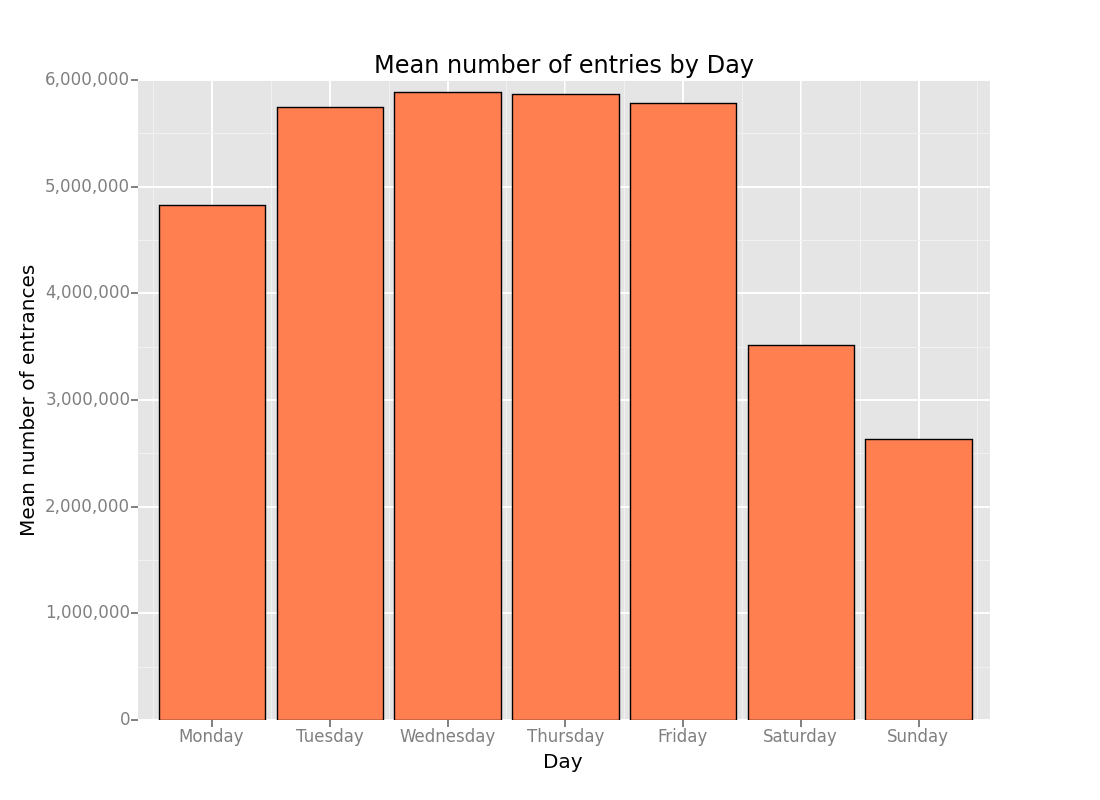
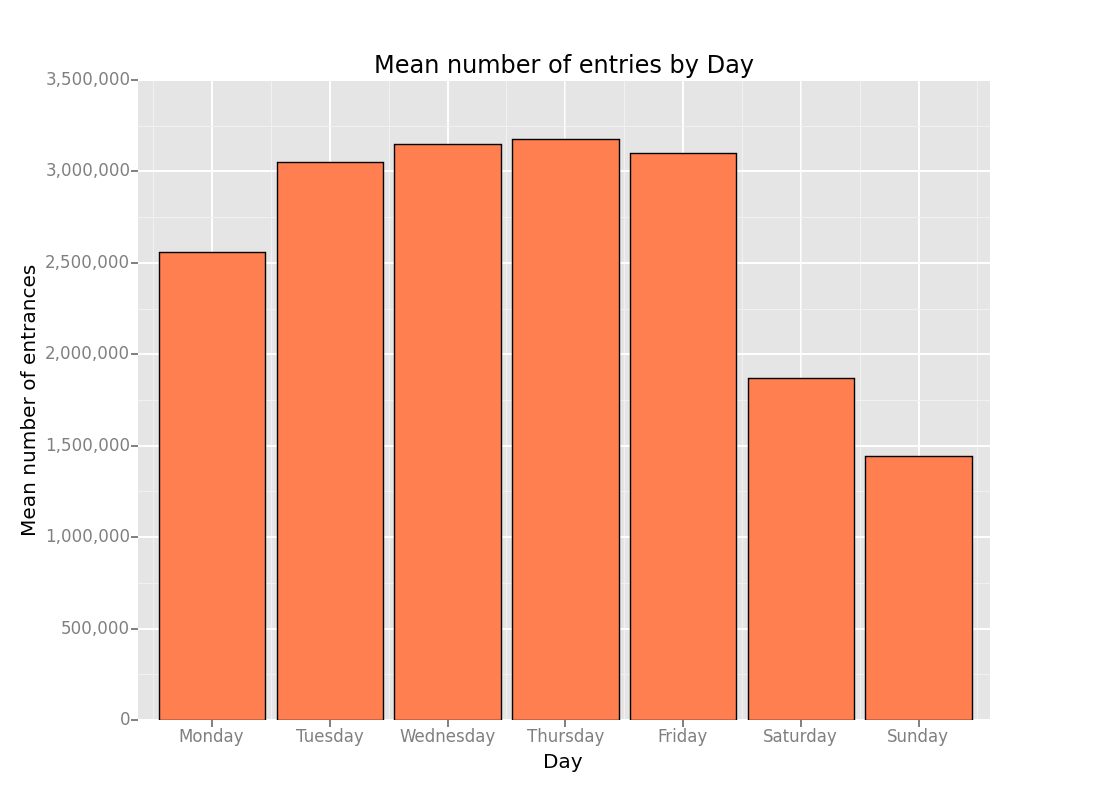
First iteration of the second project. Improved dataset was used.

diff --git a/Project2_NYSubway/Project2_NYSubway_1.html b/Project2_NYSubway/Project2_NYSubway_1.html
@@ -186,6 +186,16 @@ div#notebook {
 </div>
 <div class="inner_cell">
 <div class="text_cell_render border-box-sizing rendered_html">
+<p><strong>NOTE: EVERYTHING WAS RECALCULATED USING IMPROVED DATASET (turnstile_weather_v2.csv).</strong></p>
+
+</div>
+</div>
+</div>
+<div class="cell border-box-sizing text_cell rendered">
+<div class="prompt input_prompt">
+</div>
+<div class="inner_cell">
+<div class="text_cell_render border-box-sizing rendered_html">
 <hr>
 
 </div>
@@ -216,7 +226,6 @@ div#notebook {
 <div class="inner_cell">
 <div class="text_cell_render border-box-sizing rendered_html">
 <p>Problems with understanding and interpretation of the Mann-Whitney U-test:</p>
-<p><a href="http://stats.stackexchange.com/questions/124995/how-do-i-interpret-the-p-value-returned-in-scipys-mann-whitney-u-test">http://stats.stackexchange.com/questions/124995/how-do-i-interpret-the-p-value-returned-in-scipys-mann-whitney-u-test</a></p>
 <p><a href="https://discussions.udacity.com/t/problem-set-3-3-interpreting-mann-whitney-u-test-repost/25403/2">https://discussions.udacity.com/t/problem-set-3-3-interpreting-mann-whitney-u-test-repost/25403/2</a></p>
 <p><a href="https://discussions.udacity.com/t/welchs-ttest-use-it-if-distribution-not-normal/21193">https://discussions.udacity.com/t/welchs-ttest-use-it-if-distribution-not-normal/21193</a></p>
 <p>Linear regression with Python:</p>
@@ -225,6 +234,9 @@ div#notebook {
 <p><a href="https://en.wikipedia.org/wiki/Coefficient_of_determination#Interpretation">https://en.wikipedia.org/wiki/Coefficient_of_determination#Interpretation</a></p>
 <p>Matplotlib: equal width of the bins in histogram (looks familiar):</p>
 <p><a href="http://stackoverflow.com/questions/28101623/python-pyplot-histogram-adjusting-bin-width-not-number-of-bins">http://stackoverflow.com/questions/28101623/python-pyplot-histogram-adjusting-bin-width-not-number-of-bins</a></p>
+<p>QQ-plots:</p>
+<p><a href="https://en.wikipedia.org/wiki/Q%E2%80%93Q_plot">https://en.wikipedia.org/wiki/Q%E2%80%93Q_plot</a></p>
+<p><a href="http://stats.stackexchange.com/questions/101274/how-to-interpret-a-qq-plot">http://stats.stackexchange.com/questions/101274/how-to-interpret-a-qq-plot</a></p>
 
 </div>
 </div>
@@ -273,7 +285,7 @@ div#notebook {
 </div>
 <div class="inner_cell">
 <div class="text_cell_render border-box-sizing rendered_html">
-<p>I used <strong>two-sided Mann-Whitney U-test</strong> (two-tailed p-value: 0.04999983)</p>
+<p>I used <strong>two-sided Mann-Whitney U-test</strong> (two-tailed p-value: 5.482139e-06)</p>
 <p>null hypothesis $H_0$: distribution of the number of entries equal for rainy and non rainy days</p>
 <p>alternative hypothesis $H_1$: distribution of the number of entries different for rainy and non rainy days</p>
 
@@ -305,7 +317,7 @@ div#notebook {
 </div>
 <div class="inner_cell">
 <div class="text_cell_render border-box-sizing rendered_html">
-<p>We don't care about any properties of the samples to be tested with the Mann-Whitney U-test. In our case both distributions are right-skewed.</p>
+<p>In this case we need to check, if values from one sample is greater, than in the other, but we can't use parametric test (t-test), because both sample's distributions are right-skewed (for the t-test we need a normal distribution). Values in both samples represents number of the passengers, so can be compared with the relation "&lt;" or "&gt;" (<a href="http://docs.scipy.org/doc/scipy-0.15.1/reference/generated/scipy.stats.mannwhitneyu.html">continuity correction</a> for equal values applies by default in scipy's implementation).</p>
 
 </div>
 </div>
@@ -335,9 +347,9 @@ div#notebook {
 </div>
 <div class="inner_cell">
 <div class="text_cell_render border-box-sizing rendered_html">
-<p>mean for the rainy days sample: $\mu_r = 1105.446$</p>
-<p>mean for the non rainy days sample: $\mu_r = 1090.279$</p>
-<p>p-value: p = 0.04999983</p>
+<p>mean for the rainy days sample: $\mu_r = 2028.196$</p>
+<p>mean for the non rainy days sample: $\mu_r = 1845.5394$</p>
+<p>p-value: p = 5.482139e-06</p>
 
 </div>
 </div>
@@ -367,8 +379,8 @@ div#notebook {
 </div>
 <div class="inner_cell">
 <div class="text_cell_render border-box-sizing rendered_html">
-<p>With the significance level α=0.05 null-hypothesis is rejected in favour of the alternative. But it has to be noted, that resulted p-value almost equal to critical value.
-Distribution of the number of entrances statistically different between rainy and non rainy days. Comparisons of means suppose, that we have slightly higher number of entrances in rainy days.</p>
+<p>With the significance level α=0.05 null-hypothesis is rejected in favour of the alternative. 
+Distribution of the number of entrances statistically different between rainy and non rainy days. Comparisons of means suppose, that we have higher number of entrances in rainy days.</p>
 
 </div>
 </div>
@@ -450,7 +462,7 @@ Distribution of the number of entrances statistically different between rainy an
 </div>
 <div class="inner_cell">
 <div class="text_cell_render border-box-sizing rendered_html">
-<p>I used: 'Hour', 'maxpressurei', 'maxdewpti','minpressurei', 'meanpressurei', 'rain', 'meanwindspdi', 'mintempi' and dummy variable prodused from 'UNIT' variable.</p>
+<p>I used: 'rain' 'weekday' and 'hour', 'UNIT' as a dummy variables,</p>
 
 </div>
 </div>
@@ -483,38 +495,7 @@ Your reasons might also be based on data exploration and experimentation, for ex
 </div>
 <div class="inner_cell">
 <div class="text_cell_render border-box-sizing rendered_html">
-<p>First I've tried several combinations using an intuition, then I've printed out summary of fitting the linear regression and chose coefficients, that significantly different from 0. Code and summary below:</p>
-
-</div>
-</div>
-</div>
-<div class="cell border-box-sizing code_cell rendered">
-<div class="input">
-<div class="prompt input_prompt">In&nbsp;[9]:</div>
-<div class="inner_cell">
-    <div class="input_area">
-<div class=" highlight hl-ipython2"><pre><span class="k">def</span> <span class="nf">linear_regression</span><span class="p">(</span><span class="n">features</span><span class="p">,</span> <span class="n">values</span><span class="p">):</span>
-    
-    <span class="n">features</span> <span class="o">=</span> <span class="n">sm</span><span class="o">.</span><span class="n">add_constant</span><span class="p">(</span><span class="n">features</span><span class="p">,</span> <span class="n">prepend</span> <span class="o">=</span> <span class="bp">True</span><span class="p">)</span>
-    <span class="n">model</span> <span class="o">=</span> <span class="n">sm</span><span class="o">.</span><span class="n">OLS</span><span class="p">(</span><span class="n">values</span><span class="p">,</span> <span class="n">features</span><span class="p">)</span>
-    <span class="n">results</span> <span class="o">=</span> <span class="n">model</span><span class="o">.</span><span class="n">fit</span><span class="p">()</span>
-    <span class="n">intercept</span> <span class="o">=</span> <span class="n">results</span><span class="o">.</span><span class="n">params</span><span class="p">[</span><span class="mi">0</span><span class="p">]</span>
-    <span class="n">params</span> <span class="o">=</span> <span class="n">results</span><span class="o">.</span><span class="n">params</span><span class="p">[</span><span class="mi">1</span><span class="p">:]</span>
-    <span class="k">print</span> <span class="n">intercept</span><span class="p">,</span> <span class="n">params</span><span class="p">,</span> <span class="n">results</span><span class="o">.</span><span class="n">summary</span><span class="p">()</span>
-<span class="c">#print linear_regression(dataframe[nmes_clear], dataframe[&#39;ENTRIESn_hourly&#39;])</span>
-</pre></div>
-
-</div>
-</div>
-</div>
-
-</div>
-<div class="cell border-box-sizing text_cell rendered">
-<div class="prompt input_prompt">
-</div>
-<div class="inner_cell">
-<div class="text_cell_render border-box-sizing rendered_html">
-<p>Note: I had to got rid of "thunder" variable, because there was a problem adding the constant (intercept) when one constant already exists in data set. I can't find a link right now, but it is known problem.</p>
+<p>After an observation, that a large number of the potential features are weather conditions (so related to each other and this can cause multicollinearity), I decided to use only one of the weather variables - 'rain'. Then it was an observations from the histograms of the next section - number of passengers definitely varies depending on day of week and time of day.</p>
 
 </div>
 </div>
@@ -544,7 +525,27 @@ Your reasons might also be based on data exploration and experimentation, for ex
 </div>
 <div class="inner_cell">
 <div class="text_cell_render border-box-sizing rendered_html">
-<p><img src="lr_summary.png"></p>
+<table>
+<thead><tr>
+<th>feature</th>
+<th>weight</th>
+</tr>
+</thead>
+<tbody>
+<tr>
+<td>const</td>
+<td>-1022.636</td>
+</tr>
+<tr>
+<td>rain</td>
+<td>40.617</td>
+</tr>
+<tr>
+<td>weekday</td>
+<td>1003.760</td>
+</tr>
+</tbody>
+</table>
 
 </div>
 </div>
@@ -574,7 +575,7 @@ Your reasons might also be based on data exploration and experimentation, for ex
 </div>
 <div class="inner_cell">
 <div class="text_cell_render border-box-sizing rendered_html">
-<p>$R^2 = 0.481891290522$</p>
+<p>$R^2 = 0.541$</p>
 
 </div>
 </div>
@@ -604,7 +605,17 @@ Your reasons might also be based on data exploration and experimentation, for ex
 </div>
 <div class="inner_cell">
 <div class="text_cell_render border-box-sizing rendered_html">
-<p>Around 48% of the variance in the response variable (number of entrances per hour) can be explained by the explanatory variables. As it is a real-world data-set this value is fair enough, I reckon this model is fit reasonably well.</p>
+<p>Around 54% of the variance in the response variable (number of entrances per hour) can be explained by the explanatory variables. Though this value is reasonably high, histogram of the residuals shows, that heavy tails are present. So fit of the model is not perfect, still I don't know, if it could be better with the linear model.</p>
+
+</div>
+</div>
+</div>
+<div class="cell border-box-sizing text_cell rendered">
+<div class="prompt input_prompt">
+</div>
+<div class="inner_cell">
+<div class="text_cell_render border-box-sizing rendered_html">
+<p><img src="residuals_hist_cl.png"></p>
 
 </div>
 </div>
@@ -664,27 +675,6 @@ Your reasons might also be based on data exploration and experimentation, for ex
 <div class="inner_cell">
 <div class="text_cell_render border-box-sizing rendered_html">
 <p><em>This histogram shows us a skewness of data (expected), but as it is not normalized by number of rainy and not rainy days we can't apply it for any further conclusions</em>.</p>
-<p><em>Normalized version below:</em></p>
-
-</div>
-</div>
-</div>
-<div class="cell border-box-sizing text_cell rendered">
-<div class="prompt input_prompt">
-</div>
-<div class="inner_cell">
-<div class="text_cell_render border-box-sizing rendered_html">
-<p><img src="Rain_no_rain_norm.png"></p>
-
-</div>
-</div>
-</div>
-<div class="cell border-box-sizing text_cell rendered">
-<div class="prompt input_prompt">
-</div>
-<div class="inner_cell">
-<div class="text_cell_render border-box-sizing rendered_html">
-<p><em>Here we can see only slight difference, as expected from result of statistical test.</em></p>
 
 </div>
 </div>
@@ -805,7 +795,7 @@ Ridership by day-of-week</strong></p>
 </div>
 <div class="inner_cell">
 <div class="text_cell_render border-box-sizing rendered_html">
-<p><em>To analyze NY Subway dataset Mann-Whitney statistical test was applied and obtained results revealed that there is a slight difference between ridership in rainy and non rainy days - in rainy days slightly more people enters the NY subway stations. Average number of entrances in rainy days is approximately 1105, in non rainy days - 1090.</em></p>
+<p><em>To analyze NY Subway dataset Mann-Whitney statistical test was applied and obtained results revealed that there is a slight difference between ridership in rainy and non rainy days - in rainy days slightly more people enters the NY subway stations. Average number of entrances in rainy days is approximately 2028, in non rainy days - 1846.</em></p>
 
 </div>
 </div>
@@ -836,7 +826,7 @@ tests and your linear regression to support your analysis.</strong></p>
 </div>
 <div class="inner_cell">
 <div class="text_cell_render border-box-sizing rendered_html">
-<p>Result of Mann-Whitney test, namely, probability of obtain the different value of number of people choosing randomly from subset of rainy days vs choosing from non rainy days, showed, that there is a statistically significant difference; comparing summary statistics - such as means and medians - revealed, that higher ridership characterized rainy days. Also, in regression model raininess is a significant predictor, that means that this factor contributes to the prediction of number of passengers.</p>
+<p>Result of Mann-Whitney test, namely, probability of obtain the different value of number of people choosing randomly from subset of rainy days vs choosing from non rainy days, showed, that there is a statistically significant difference; comparing summary statistics - such as means and medians - revealed, that higher ridership characterized rainy days. Also, in regression model raininess is a significant predictor with the positive weight, that means that this factor contributes to the prediction  of number of passengers.</p>
 
 </div>
 </div>
@@ -887,25 +877,13 @@ tests and your linear regression to support your analysis.</strong></p>
 </div>
 <div class="inner_cell">
 <div class="text_cell_render border-box-sizing rendered_html">
-<p>I noticed, that for a different UNITs time of registration of number of entrances can be shifted for one hour or missing (e.g. R001 - (Hours) 1, 5, 9, 13, 17, 21, R003 - 0, 4, 12, 16, 20), this can cause some issues. 
-Second not very great thing is that raininess usually not a day-long characteristics, for example, days, when it was raining between 03 and 07 am can be marked as rainy, but in fact this rain didn't cause changes in ridership.
-Most of the predictors are weather conditions, so correlated to each other (rain and preassure for example), so using all of them in the regression model can cause multicollinearity problems. Also, output of the scipy's mannwhitneyu is <a href="http://stats.stackexchange.com/questions/124995/how-do-i-interpret-the-p-value-returned-in-scipys-mann-whitney-u-test">quastionable</a>.</p>
+<p>Raininess usually not a day-long characteristics, for example, days, when it was raining between 03 and 07 am can be marked as rainy, but in fact this rain didn't cause changes in ridership.
+Most of the predictors are weather conditions, so correlated to each other (rain and preassure for example), so using some of them tougether in the regression model can cause multicollinearity problems.
+In raw dataset it is also some inconsistencies in times of registration on number of entries in different units (stations).</p>
+<p>After performing a model, histogram of the residuals shows heavy tales, this meant that model fit is questionable. Though I've deleted one variable of each dummy sets and tested different sets of features, residuals distribution indicates that there is a problem.</p>
 
 </div>
 </div>
-</div>
-<div class="cell border-box-sizing code_cell rendered">
-<div class="input">
-<div class="prompt input_prompt">In&nbsp;[&nbsp;]:</div>
-<div class="inner_cell">
-    <div class="input_area">
-<div class=" highlight hl-ipython2"><pre> 
-</pre></div>
-
-</div>
-</div>
-</div>
-
 </div>
     </div>
   </div>
